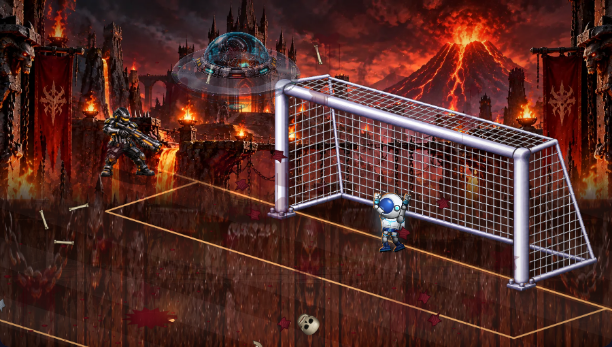
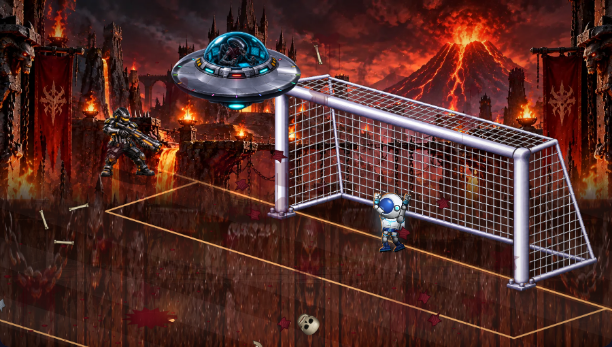
Kombat Penales: ovni opaco y render final de alta calidad

Changed region(s): [[0.2794, 0.0865, 0.4967, 0.317]]

diff --git a/src/features/games/kombatPenUfo.ts b/src/features/games/kombatPenUfo.ts
@@ -13,6 +13,18 @@ export function ufoSequence(t: number) {
   return { enter: smooth(t / 1.15), beam: t < 1.55 || t > FINAL_SHOT_AT + 0.65 ? 0 : Math.min(smooth((t - 1.55) / 0.2), 1 - smooth((t - FINAL_SHOT_AT - 0.25) / 0.4)), leave: smooth((t - (FINAL_END_AT - 1.1)) / 1.1) };
 }
 
+// La silueta es continua en cada fila: nunca se perfora el interior oscuro.
+export function maskUfoSilhouette(data: Uint8ClampedArray, width: number, height: number) {
+  for (let y = 0; y < height; y++) {
+    let left = width, right = -1;
+    for (let x = 0; x < width; x++) {
+      const p = (y * width + x) * 4;
+      if (Math.max(data[p], data[p + 1], data[p + 2]) > 28) { left = Math.min(left, x); right = x; }
+    }
+    for (let x = 0; x < width; x++) data[(y * width + x) * 4 + 3] = x >= left && x <= right ? 255 : 0;
+  }
+}
+
 let image: HTMLImageElement | null = null;
 let sprite: HTMLCanvasElement | null = null;
 let platter: HTMLCanvasElement | null = null;
@@ -24,23 +36,9 @@ export function preloadPenUfo() {
     const canvas = document.createElement('canvas'); canvas.width = 1536; canvas.height = 1024;
     const c = canvas.getContext('2d'); if (!c || !image) return;
     c.drawImage(image, 0, 0);
-    // El PNG original tiene fondo negro. Sólo se vuelve transparente el negro conectado
-    // al borde: los negros del alien, la cabina y el casco metálico se conservan.
-    const pixels = c.getImageData(0, 0, canvas.width, canvas.height), data = pixels.data;
-    const seen = new Uint8Array(canvas.width * canvas.height), queue = new Int32Array(seen.length);
-    let head = 0, tail = 0;
-    const visit = (p: number) => {
-      if (seen[p]) return; seen[p] = 1;
-      const j = p * 4; if (Math.max(data[j], data[j + 1], data[j + 2]) > 28) return;
-      queue[tail++] = p;
-    };
-    for (let x = 0; x < canvas.width; x++) { visit(x); visit((canvas.height - 1) * canvas.width + x); }
-    for (let y = 0; y < canvas.height; y++) { visit(y * canvas.width); visit(y * canvas.width + canvas.width - 1); }
-    while (head < tail) {
-      const p = queue[head++], x = p % canvas.width, y = Math.floor(p / canvas.width); data[p * 4 + 3] = 0;
-      if (x) visit(p - 1); if (x < canvas.width - 1) visit(p + 1);
-      if (y) visit(p - canvas.width); if (y < canvas.height - 1) visit(p + canvas.width);
-    }
+    // Recortar por el contorno exterior conserva opacos todos los negros del casco.
+    const pixels = c.getImageData(0, 0, canvas.width, canvas.height);
+    maskUfoSilhouette(pixels.data, canvas.width, canvas.height);
     c.putImageData(pixels, 0, 0); sprite = canvas;
     // Textura del plato tomada de su mitad frontal, sin arrastrar al piloto al girar.
     platter = document.createElement('canvas'); platter.width = canvas.width; platter.height = canvas.height;
@@ -83,7 +81,7 @@ export function drawPenUfo(ctx: CanvasRenderingContext2D, t: number, target: { x
   const x = target.x + (1 - seq.enter) * 650 + seq.leave * 500;
   const y = target.y - target.h * 2.15 - (1 - seq.enter) * 650 - seq.leave * 750 + Math.sin(t * 3.5) * 9;
   const nozzleY = y + (870 - 512) * scale, hitY = target.y - target.h * 0.5;
-  ctx.save(); ctx.globalAlpha = 1 - seq.leave;
+  ctx.save(); ctx.globalAlpha = 1; ctx.globalCompositeOperation = 'source-over'; ctx.imageSmoothingEnabled = true; ctx.imageSmoothingQuality = 'high';
   if (seq.beam > 0) {
     ctx.save(); ctx.globalAlpha *= seq.beam; ctx.globalCompositeOperation = 'lighter';
     const beam = ctx.createLinearGradient(x, nozzleY, target.x, target.y); beam.addColorStop(0, 'rgba(135,255,255,0.95)'); beam.addColorStop(0.5, 'rgba(30,221,255,0.5)'); beam.addColorStop(1, 'rgba(37,222,255,0.08)');

diff --git a/tests/kombat-penales-deaths.spec.ts b/tests/kombat-penales-deaths.spec.ts
@@ -3,6 +3,31 @@ import { readFileSync } from 'node:fs';
 
 const project = JSON.parse(readFileSync(new URL('../package.json', import.meta.url), 'utf8'));
 
+test('el casco del ovni permanece opaco incluso al retirarse', async ({ page }) => {
+  const base = project.name === 'minijuegos' ? '/MiniJuegos/' : '/escritorio-personal/';
+  await page.goto(`${base}docs/kombat-penales-muertes-preview.html`);
+  await page.waitForFunction(() => 'penPreview' in window);
+  const alpha = await page.evaluate(async base => {
+    const url = `${base}src/features/games/kombatPenUfo.ts`;
+    const { drawPenUfo, ufoSequence } = await import(/* @vite-ignore */ url);
+    const image = new Image(); image.src = `${base}src/features/games/assets/penales/ovni.png`; await image.decode();
+    await new Promise(resolve => setTimeout(resolve, 100));
+    const canvas = document.createElement('canvas'); canvas.width = 1536; canvas.height = 1024;
+    const ctx = canvas.getContext('2d')!;
+    const result: number[] = [];
+    for (const t of [1.3, 4.6]) {
+      ctx.clearRect(0, 0, 1536, 1024);
+      const seq = ufoSequence(t), h = 1536 / 2.8;
+      const x = 768 - (1 - seq.enter) * 650 - seq.leave * 500;
+      const y = 512 + h * 2.15 + (1 - seq.enter) * 650 + seq.leave * 750 - Math.sin(t * 3.5) * 9;
+      drawPenUfo(ctx, t, { x, y, h });
+      for (const [px, py] of [[768, 760], [768, 800], [1100, 690]]) result.push(ctx.getImageData(px, py, 1, 1).data[3]);
+    }
+    return result;
+  }, base);
+  expect(alpha).toEqual(Array(6).fill(255));
+});
+
 test('las siete muertes se dibujan para ambos roles y todos los luchadores', async ({ page }) => {
   test.setTimeout(240_000);
   const errors: string[] = [];

diff --git a/src/features/games/KombatPenaltiesGame.tsx b/src/features/games/KombatPenaltiesGame.tsx
@@ -256,7 +256,8 @@ export function KombatPenalties() {
     const el = stageRef.current, canvas = canvasRef.current, m = matchRef.current;
     if (!el || !canvas || !m) return;
     const touch = !!window.matchMedia?.('(pointer: coarse)').matches;
-    const k = Math.min(pixelRatio(touch ? 1.5 : 2), (touch ? 1280 : 1920) / Math.max(1, el.clientWidth), (touch ? 760 : 1100) / Math.max(1, el.clientHeight)) * QUALITY[quality.current], w = Math.round(el.clientWidth * k), h = Math.round(el.clientHeight * k);
+    const finale = m.phase === 'execution';
+    const k = finale ? Math.min(pixelRatio(2), 2560 / Math.max(1, el.clientWidth), 1500 / Math.max(1, el.clientHeight)) : Math.min(pixelRatio(touch ? 1.5 : 2), (touch ? 1280 : 1920) / Math.max(1, el.clientWidth), (touch ? 760 : 1100) / Math.max(1, el.clientHeight)) * QUALITY[quality.current], w = Math.round(el.clientWidth * k), h = Math.round(el.clientHeight * k);
     if (canvas.width !== w || canvas.height !== h) { canvas.width = w; canvas.height = h; }
     const low = touch || quality.current > 0; setLowFx(low); setNoGrain(low);
     const ctx = canvas.getContext('2d'); if (!ctx) return;

diff --git a/src/features/games/kombatPenUfo.test.ts b/src/features/games/kombatPenUfo.test.ts
@@ -1,8 +1,15 @@
 import { describe, expect, it } from 'vitest';
 import { FINAL_END_AT, FINAL_SHOT_AT, newPenalties, stepPenalties, takePenEvents } from './kombatPenalties';
-import { ufoLights, ufoSequence } from './kombatPenUfo';
+import { maskUfoSilhouette, ufoLights, ufoSequence } from './kombatPenUfo';
 
 describe('ejecución del ovni', () => {
+  it('elimina el fondo sin volver transparente el negro interior del casco', () => {
+    const data = new Uint8ClampedArray(7 * 2 * 4);
+    for (const x of [1, 5]) { data[x * 4] = 120; data[x * 4 + 3] = 255; }
+    maskUfoSilhouette(data, 7, 2);
+    expect(Array.from({ length: 7 }, (_, x) => data[x * 4 + 3])).toEqual([0, 255, 255, 255, 255, 255, 0]);
+    expect(Array.from({ length: 7 }, (_, x) => data[(7 + x) * 4 + 3])).toEqual(Array(7).fill(0));
+  });
   it('las luces conservan color, separación y orden durante una vuelta completa', () => {
     const initial = ufoLights(0);
     for (const t of [0.4, 1.1, 3.8, 8]) {

diff --git a/docs/kombat-penales-ovni.md b/docs/kombat-penales-ovni.md
@@ -1,6 +1,8 @@
 # Ovni de Kombat Penales
 
-El PNG original del usuario se conserva sin modificaciones. El render elimina sólo el negro de fondo conectado al borde. La cabina permanece orientada hacia la cámara y el anillo metálico gira sobre su eje; dieciséis lámparas de ocho colores mantienen su identidad y su orden durante la vuelta.
+El PNG original de 1536 × 1024 se conserva sin modificaciones. El render recorta el contorno exterior por filas y mantiene opaco todo el interior, incluidos los negros del casco. El ovni se retira por movimiento sin desvanecerse. La cabina permanece orientada hacia la cámara y el anillo metálico gira sobre su eje; dieciséis lámparas de ocho colores mantienen su identidad y su orden durante la vuelta.
+
+Durante la ejecución se renderiza a la resolución del dispositivo, con límites de 2560 × 1500, sin la reducción adaptativa usada durante los penales. El reescalado del ovni usa interpolación de alta calidad.
 
 Al perder la tanda, el ovni entra desde arriba, carga el emisor y proyecta el haz celeste fluorescente. A los 2,25 segundos el perdedor explota en sangre y huesos con los sonidos de explosión existentes. El ovni se retira antes del resultado, a los 5,2 segundos. El árbitro conserva sus disparos en los penales individuales.
 
